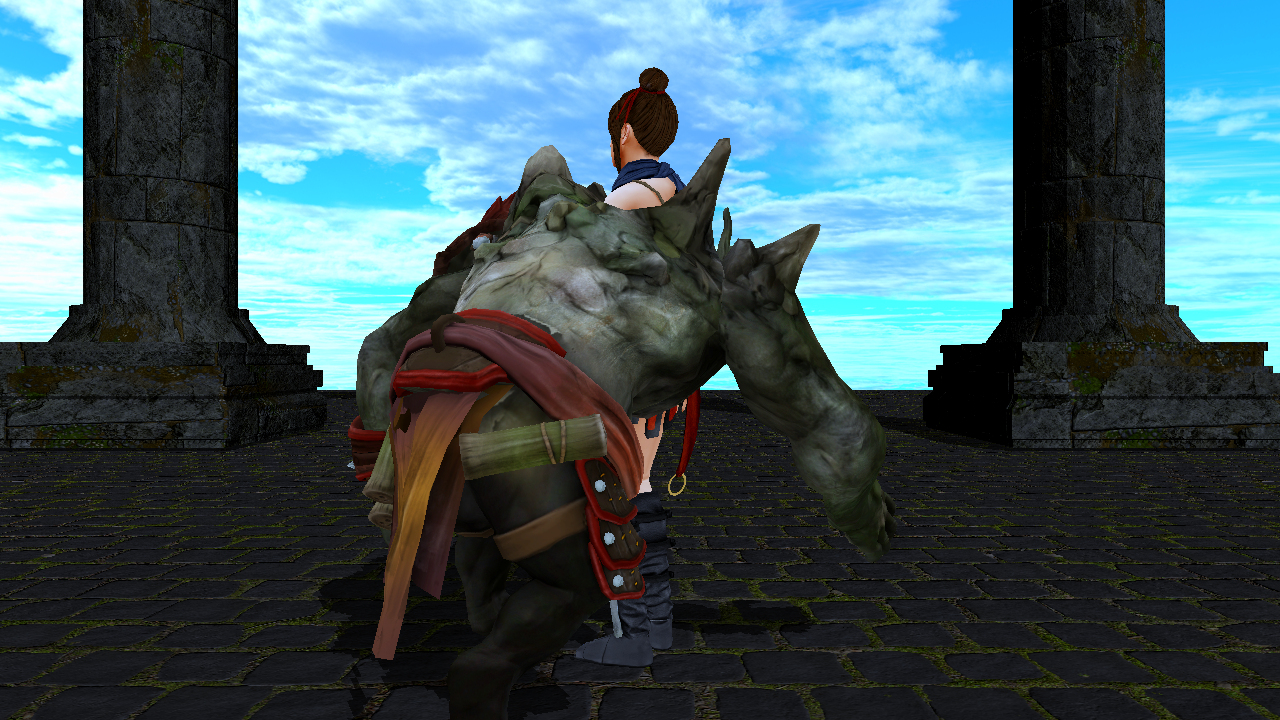
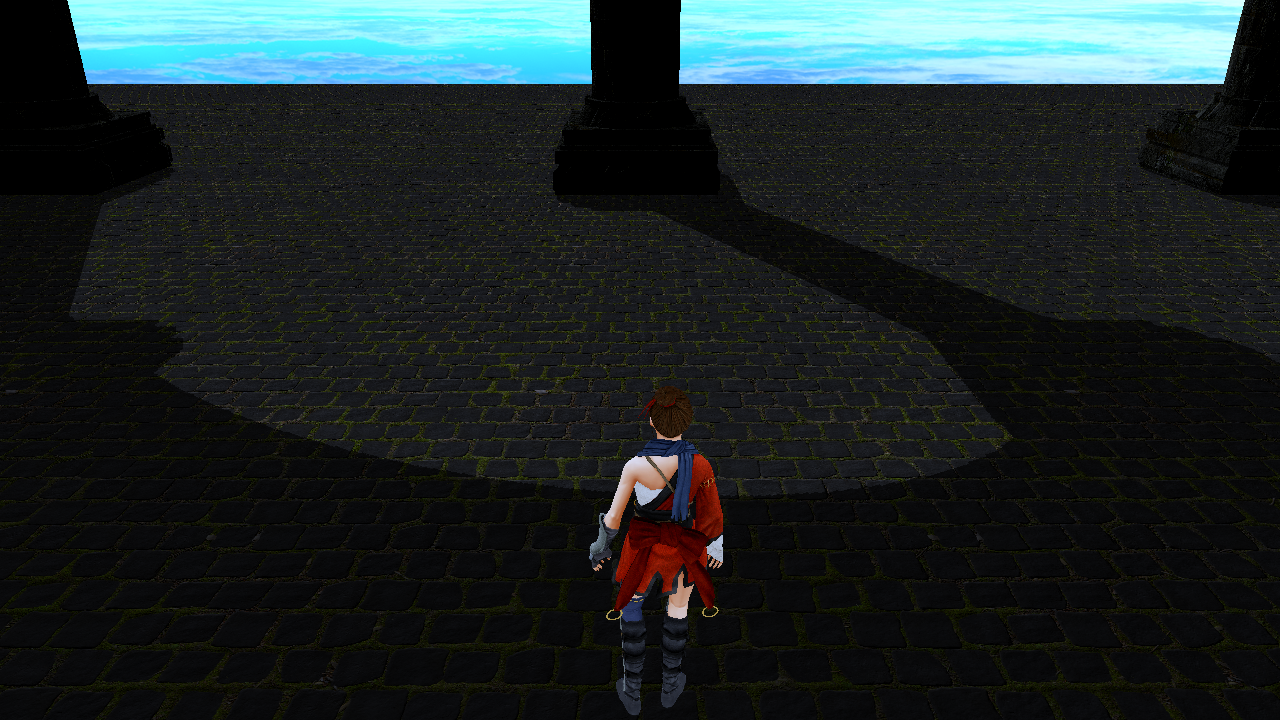
useitem 進化する

diff --git a/Orginal/Source/CommandBase.h b/Orginal/Source/CommandBase.h
@@ -21,7 +21,7 @@ public:
 protected:
 	Behaviour mBehaviour;
 	int mTargetObjID;
-	ItemData::ItemParam* mUseItemParam;
+	const ItemData::ItemParam* mUseItemParam;
 
 public:
 	CommandBase() = default;
@@ -30,13 +30,13 @@ public:
 	virtual void Render() const {};
 
 	bool IsBehaviourEnable() const { return (mBehaviour != Behaviour::NONE); }
-	void BehaviourFinished() { mBehaviour = Behaviour::NONE; }
+	void BehaviourFinished();
 
 	int GetTargetObjID() const { return mTargetObjID; }
 	Behaviour GetBehaviour() const { return mBehaviour; }
-	ItemData::ItemParam* GetItemParam() { return mUseItemParam; }
+	const ItemData::ItemParam* GetItemParam() { return mUseItemParam; }
 	
 	void SetBehaviour(const Behaviour behaviour) { mBehaviour = behaviour; }
 	void SetTargetObjID(const int targetObjID) { mTargetObjID = targetObjID; }
-	void SetItemParam(ItemData::ItemParam* param) { mUseItemParam = param; }
+	void SetItemParam(const ItemData::ItemParam* param) { mUseItemParam = param; }
 };

diff --git a/Orginal/Source/CameraBattle.cpp b/Orginal/Source/CameraBattle.cpp
@@ -58,8 +58,17 @@ void CameraBattle::Update(const Actor* target)
 		const float POS_Z_DIST = 7.5f;
 		mPos = Vector3(0.0f, POS_Y_DIST, BattleActorManager::PLAYER_POS_Z - POS_Z_DIST);
 		mTarget = Vector3(0.0f, 0.0f, BattleActorManager::ENEMY_POS_Z);
-	}
 
+	}
+		break;
+	case BattleState::State::PARTY_SELECT:
+	{
+		const float POS_Y_DIST = 6.5f;
+		mPos = Vector3(0.0f, POS_Y_DIST, BattleActorManager::ENEMY_POS_Z);
+
+		
+		mTarget = Vector3(0.0f, (target->GetAABB().max.y - target->GetAABB().min.y) / 2.0f , BattleActorManager::PLAYER_POS_Z);
+	}
 		break;
 	}
 	UpdateView();

diff --git a/Orginal/Source/Item.h b/Orginal/Source/Item.h
@@ -14,6 +14,7 @@ public:
 	void Sub(const int index);
 
 	int GetItemNum() const { return static_cast<int>(mItems.size()); }
-	ItemData::ItemParam GetItemParam(const int index) const { return mItems[index]; }
+	//ItemData::ItemParam GetItemParam(const int index) const { return mItems[index]; }
+	const ItemData::ItemParam* GetItemParam(const int index) const { return &mItems[index]; }
 	//const std::vector<ItemData::ItemParam>& GetAll() const { return mItems; }
 };
